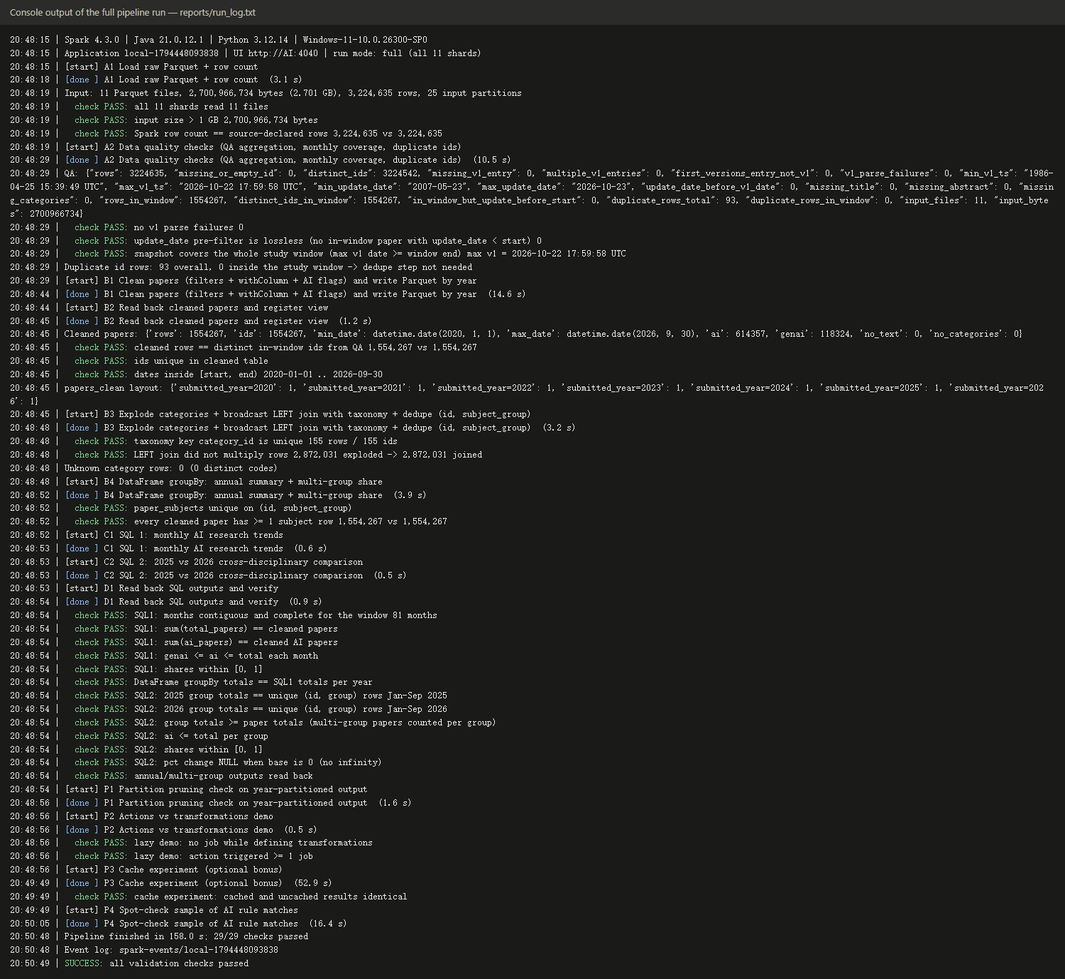
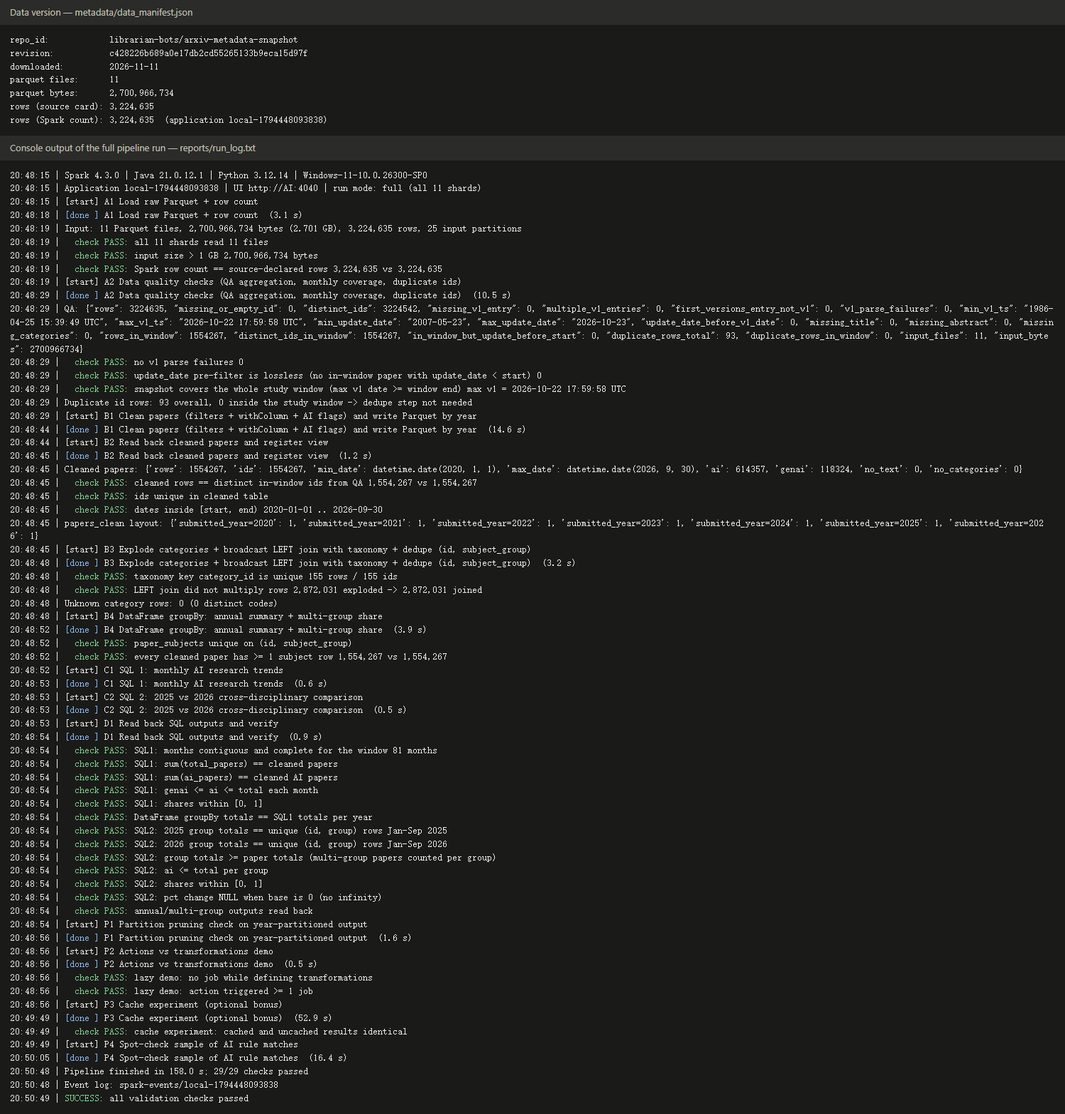
Add README with findings, performance analysis and screenshots
- Dataset description, pinned source, run instructions, methodology
- Key findings for RQ1/RQ2 from the full run, with charts
- Performance analysis based on the plans and Spark UI metrics
- Lazy evaluation and cache results, screenshot gallery, limitations,
  rubric-to-evidence table, CI badge
- Run-log image now also shows the data version from the manifest

diff --git a/capture_screenshots.py b/capture_screenshots.py
@@ -174,16 +174,38 @@ class LiveUICapture:
         self._with_page(run)
 
 
-def render_log(log_file, out_png, title="Console output of the full pipeline run"):
-    """Screenshot of the real run log, rendered as plain monospaced text."""
+def manifest_summary(manifest_file):
+    """A few lines from metadata/data_manifest.json (data version and size)."""
+    m = json.loads(Path(manifest_file).read_text(encoding="utf-8"))
+    local = m["locally_measured"]
+    return "\n".join([
+        f"repo_id:            {m['repo_id']}",
+        f"revision:           {m['revision']}",
+        f"downloaded:         {m['download_date_local']}",
+        f"parquet files:      {local['num_parquet_files']}",
+        f"parquet bytes:      {local['parquet_total_bytes']:,}",
+        f"rows (source card): {m['source_declared']['num_rows']:,}",
+        f"rows (Spark count): {local['spark_row_count']:,}  (application {local.get('spark_application_id')})",
+    ])
+
+
+def render_log(log_file, out_png, manifest_file="metadata/data_manifest.json",
+               title="Console output of the full pipeline run"):
+    """Image of the run log text, with the data version from the manifest on top."""
     text = Path(log_file).read_text(encoding="utf-8")
+    log_html = (html.escape(text).replace("check PASS", '<span class="pass">check PASS</span>')
+                .replace("SUCCESS", '<span class="pass">SUCCESS</span>')
+                .replace("[done ]", '<span class="done">[done ]</span>'))
     page_html = f"""<html><head><meta charset="utf-8"><style>
       body {{ margin:0; background:#1a1a19; color:#f0efec; font:13px/1.45 Consolas, monospace; }}
       .bar {{ background:#2b2b29; color:#c3c2b7; padding:8px 14px; font-family:Segoe UI, sans-serif; }}
       pre {{ margin:0; padding:12px 14px; white-space:pre-wrap; word-break:break-all; }}
       .pass {{ color:#7fd18b; }} .done {{ color:#8ab8f0; }}
-    </style></head><body><div class="bar">{html.escape(title)} &mdash; {html.escape(str(log_file))}</div>
-    <pre>{html.escape(text).replace("check PASS", '<span class="pass">check PASS</span>').replace("SUCCESS", '<span class="pass">SUCCESS</span>').replace("[done ]", '<span class="done">[done ]</span>')}</pre></body></html>"""
+    </style></head><body>
+    <div class="bar">Data version &mdash; {html.escape(str(manifest_file))}</div>
+    <pre>{html.escape(manifest_summary(manifest_file))}</pre>
+    <div class="bar">{html.escape(title)} &mdash; {html.escape(str(log_file))}</div>
+    <pre>{log_html}</pre></body></html>"""
     with sync_playwright() as pw:
         browser = _launch(pw)
         page = browser.new_page(viewport={"width": 1500, "height": 900})

diff --git a/README.md b/README.md
@@ -1,0 +1,339 @@
+# AI Research Growth and Cross-Disciplinary Diffusion: A PySpark Analysis of arXiv, 2020–2026
+
+[![CI](https://github.com/USERZEROA/arxiv-ai-pyspark/actions/workflows/ci.yml/badge.svg)](https://github.com/USERZEROA/arxiv-ai-pyspark/actions/workflows/ci.yml)
+
+A PySpark batch pipeline over 2.7 GB of arXiv metadata (3.2 million records) that measures how many new arXiv papers are AI-related, how that share changed between January 2020 and September 2026, and how it differs across arXiv's subject groups.
+
+**Research questions**
+
+* **RQ1** – How did the number and the share of AI-related papers change month by month, and how much of it mentions generative AI / large language models?
+* **RQ2** – In which arXiv subject groups do AI-related papers appear, and how did the AI share of each group change from January–September 2025 to January–September 2026?
+
+This is a descriptive study. Counts of category labels and keyword matches do not show that AI *caused* more research or that authors *used* AI tools. "Diffusion" here only means that AI topics appear in more subject groups. It is not a measured mechanism.
+
+---
+
+## Contents
+
+1. [Dataset](#dataset)
+2. [How to run](#how-to-run)
+3. [Pipeline and methodology](#pipeline-and-methodology)
+4. [Key findings](#key-findings)
+5. [Run measurements](#run-measurements)
+6. [Performance analysis](#performance-analysis)
+7. [Actions vs transformations](#actions-vs-transformations)
+8. [Caching (optional bonus)](#caching-optional-bonus)
+9. [Screenshots](#screenshots)
+10. [Limitations](#limitations)
+11. [Repository layout](#repository-layout)
+12. [Rubric coverage](#rubric-coverage)
+
+---
+
+## Dataset
+
+### arXiv paper metadata
+
+| | |
+|---|---|
+| Source chain | arXiv → Cornell University's [Kaggle arXiv dataset](https://www.kaggle.com/datasets/Cornell-University/arxiv) → [librarian-bots/arxiv-metadata-snapshot](https://huggingface.co/datasets/librarian-bots/arxiv-metadata-snapshot), a Parquet mirror on Hugging Face (it is not an official Cornell release) |
+| Pinned revision | [`c428226b689a0e17db2cd55265133b9eca15d97f`](https://huggingface.co/datasets/librarian-bots/arxiv-metadata-snapshot/commit/c428226b689a0e17db2cd55265133b9eca15d97f) (last modified 2026-10-27) |
+| Files | 11 Parquet files, **2,700,966,734 bytes (2.70 GB / 2.52 GiB)** measured on disk. Every file matches the size listed by the Hub, see [`metadata/data_manifest.json`](metadata/data_manifest.json) |
+| Rows | **3,224,635** counted by Spark, equal to the row count on the dataset card |
+| Columns used | `id`, `title`, `abstract`, `categories`, `versions` (array of `{version, created}`), `update_date`. The other 8 columns (authors, DOI, comments, ...) are never read |
+| Time coverage | v1 submission dates from 1986-04-25 to **2026-10-22** (UTC); `update_date` from 2007-05-23 to 2026-10-23 |
+| License | The mirror's data card lists **CC0-1.0** for the metadata ([copy of the card](metadata/dataset_card_README.md)). Each paper's full text has its own license. No full texts are downloaded |
+
+`download_data.py` uses `huggingface_hub.snapshot_download` with `repo_type="dataset"`, the full revision hash and `allow_patterns=["data/*.parquet", "README.md"]`. It only fetches files; all cleaning and analysis happens in Spark.
+
+Data quality, measured in one aggregation over the raw files ([`reports/data_quality.json`](reports/data_quality.json)):
+
+* Every record has exactly one `versions` entry labelled `v1`, and all v1 timestamps parse (0 failures). Titles, abstracts and categories are never empty.
+* 81 arXiv ids occur more than once (174 rows, 93 extra rows). All of them are old-style ids first submitted between 1998 and 2007, so none falls inside the study window. Most copies differ in metadata (for example one copy has the later-added alias `cs.NA`). The list is in [`reports/duplicate_ids.csv`](reports/duplicate_ids.csv). The pipeline has a deterministic rule (keep the latest `update_date`), but it runs only if duplicates appear inside the window, which they do not.
+* The files are sorted by `update_date`, newest first, not by submission date.
+
+### arXiv category taxonomy (joined dataset)
+
+[`metadata/arxiv_categories.csv`](metadata/arxiv_categories.csv) is built by `build_categories.py` from the official page <https://arxiv.org/category_taxonomy> (retrieved 2026-11-11, page hash in [`metadata/arxiv_categories_source.json`](metadata/arxiv_categories_source.json)). It has 155 category codes (unique) and the page's 8 top-level groups: Computer Science, Economics, Electrical Engineering and Systems Science, Mathematics, Physics, Quantitative Biology, Quantitative Finance and Statistics. Physics archives such as `astro-ph` or `hep-th` stay inside the Physics group, as on the page. The page states six aliases (`cs.NA`→`math.NA`, `cs.SY`→`eess.SY`, `math.IT`→`cs.IT`, `math.MP`→`math-ph`, `q-fin.EC`→`econ.GN`, `stat.TH`→`math.ST`). An alias row takes the subject group of its canonical code, so a paper listed under both codes is not counted as cross-disciplinary.
+
+---
+
+## How to run
+
+Tested on Windows 11 with Python 3.12.14, Java 21 (Temurin), PySpark 4.3.0, 24 CPU cores and 63 GB RAM, in **single-machine local mode** (`local[*]`). The CI job runs the unit tests on Ubuntu with Java 17.
+
+```bash
+# 1. environment (any venv tool works; uv shown here)
+uv venv .venv --python 3.12
+uv pip install --python .venv -r requirements.txt     # or: pip install -r requirements.txt
+
+# 2. data: pinned snapshot (~2.7 GB) + manifest
+python download_data.py
+python build_categories.py          # optional, the CSV is already in metadata/
+
+# 3. full pipeline (all 11 files) + screenshots of the live Spark UI
+python pipeline.py --capture-ui
+python capture_screenshots.py --log reports/run_log.txt --out screenshots/00_run_log_full_pipeline.png
+python make_charts.py               # redraw charts from reports/*.csv (pipeline.py already does this)
+
+# 4. extra checks
+python benchmark_split_size.py      # input split size comparison
+python -m pytest -q tests           # or: python tests/test_pipeline.py
+
+# 5. look at a finished run again in the Spark History Server
+python history_server.py            # then open http://localhost:18080
+```
+
+Other flags: `python pipeline.py --dev` runs on the first file only and writes to `outputs/dev` and `reports/dev` (development only, not used for any result here). `--skip-cache` skips the cache experiment.
+
+Notes for Windows:
+
+* Spark's launch scripts fail when the install path contains non-ASCII characters (this project lives in a folder with a Chinese name). `spark_session.py` replaces only those path parts with their 8.3 short names.
+* Hadoop's local file system wants `winutils.exe`/`hadoop.dll`, which PySpark does not ship. Instead of downloading third-party binaries, `spark_session.py` compiles [`tools/windows/NoChmodLocalFileSystem.java`](tools/windows/NoChmodLocalFileSystem.java) with the local JDK (a JDK with `javac` is needed). This small subclass skips POSIX permission calls and lists folders with `java.io.File`. On Linux and macOS nothing changes.
+* `--capture-ui` uses Playwright with the installed Google Chrome.
+
+Large files stay local and are ignored by Git: `data/` (raw Parquet), `outputs/` (pipeline Parquet output) and `spark-events/` (event logs).
+
+---
+
+## Pipeline and methodology
+
+All code is in [`pipeline.py`](pipeline.py). The two SQL queries are in [`sql/`](sql).
+
+```
+raw Parquet (11 files, 14 columns)
+  │ A1  read 6 needed columns, count rows                       column pruning
+  │ A2  one QA aggregation, monthly coverage, duplicate-id report
+  ▼
+  B1  4 filters + withColumn (v1 date, year, month, category list, AI flags)
+      → outputs/papers_clean/submitted_year=YYYY/   (Parquet, 1 file per year)
+  B2  read back, register view `papers`
+  B3  explode categories → broadcast LEFT JOIN taxonomy → unique (id, subject_group)
+      → outputs/paper_subjects/submitted_year=YYYY/, view `paper_subjects`
+  B4  DataFrame groupBy: yearly summary, multi-group share
+  C1  SQL 1 monthly trends            → outputs/sql1_monthly_trends   + reports/monthly_ai_trends.csv
+  C2  SQL 2 2025 vs 2026 by group     → outputs/sql2_field_comparison + reports/field_comparison_2025_2026.csv
+  D1  read outputs back and check them against independent counts (29 checks)
+  P1–P4  partition pruning, lazy-evaluation demo, cache experiment, spot-check sample
+```
+
+**First submission date.** The date is the `created` value of the `versions` entry whose label is `v1`. It is picked by label, not by array position. Values look like `Mon, 2 Apr 2007 19:18:42 GMT`. Spark 3+ cannot parse the weekday field, so the `Mon, ` prefix is removed and the rest is parsed with `try_to_timestamp(..., "d MMM yyyy HH:mm:ss z")` in UTC. A missing or unparseable value becomes NULL and the paper is dropped from the window. `update_date` is never used as a replacement, because it changes with later versions and metadata edits.
+
+**Study window.** `2020-01-01 <= v1 date < 2026-10-01`: the full years 2020–2025 plus January–September 2026. The snapshot's last v1 date is 2026-10-22, so October 2026 is incomplete and left out. Every month in the window has data (81 months, see [`reports/monthly_coverage.csv`](reports/monthly_coverage.csv)). Having data does not prove that a month is complete; papers held back by moderation can appear later. 2026 is only ever compared with the same months of 2025. Full-year tables and Jan–Sep tables are kept separate ([`reports/annual_full_years.csv`](reports/annual_full_years.csv), [`reports/same_months_jan_sep_by_year.csv`](reports/same_months_jan_sep_by_year.csv)).
+
+**AI flags** (rules and version in [`metadata/classification_rules.json`](metadata/classification_rules.json)):
+
+| Field | Definition |
+|---|---|
+| `is_ai_category` | categories include one of `cs.AI, cs.LG, cs.CL, cs.CV, cs.RO, cs.MA, cs.NE, stat.ML` |
+| `mentions_ai_terms` | title + abstract matches whole phrases such as *artificial intelligence, machine learning, deep learning, neural network(s), reinforcement learning, (self-/semi-/un)supervised learning, natural language processing, computer vision, language model(s)* ..., or any GenAI/LLM phrase |
+| `mentions_genai_llm` | *generative AI / generative artificial intelligence, large language model(s), vision language model(s), ChatGPT, GPT-2…GPT-5, generative pre-trained transformer*, or the upper-case acronym `LLM`/`LLMs` as a whole word |
+| `ai_related` | `is_ai_category OR mentions_ai_terms` |
+| `text_available` | title or abstract non-empty (true for every paper in this snapshot) |
+
+The category list is this project's own choice, not an official arXiv definition of AI. `cs.AI` alone excludes machine learning, vision, NLP, robotics and multi-agent systems, which arXiv files separately. Before matching, text is lower-cased, and hyphens, dashes and runs of whitespace become single spaces. Word boundaries are required. Deliberately not matched: the bare token "AI", and the words *transformer*, *diffusion*, *agent* and *attention*, because all of them are common in physics, engineering or economics. The keyword groups overlap, so their counts must not be added up. A manual look at 36 sampled records is written up in [`reports/spot_check_review.md`](reports/spot_check_review.md). No accuracy figure is claimed.
+
+**Units and denominators.** Global counts use unique paper ids. Global AI share = AI-related papers / all papers in the window, so non-AI papers stay in the denominator. For subject groups, categories are exploded and joined to the taxonomy, then reduced to unique `(id, subject_group)` pairs. A paper with three Computer Science categories counts once in Computer Science, and a paper in Computer Science and Statistics counts once in each, so group totals add up to more than the number of papers. Group AI share = AI-related pairs in the group / all pairs in the group. Codes missing from the taxonomy would become `Unknown`; in this window there are none ([`reports/unknown_categories.csv`](reports/unknown_categories.csv) is empty). Changes in shares are given in **percentage points (pp)**; changes in counts are given as **percent change**, which is NULL when the base is zero.
+
+---
+
+## Key findings
+
+All numbers come from the full run `local-1794448093838`: 1,554,267 papers first submitted between January 2020 and September 2026.
+
+![Monthly AI share](reports/figures/monthly_ai_share.png)
+
+**1. The AI-related share rose every full year, from 29.2% in 2020 to 45.7% in 2025.** In 2020, 51,978 of 178,275 new papers were AI-related; in 2025 it was 129,958 of 284,162. AI-related papers grew faster than all papers in each year (for example +29.9% vs +16.5% in 2024), so the rise is not just a larger arXiv. In the same months of 2026 (Jan–Sep) the share was 46.8% (127,031 of 271,331), only **+0.8 pp** above Jan–Sep 2025 (46.0%). The yearly gains in that comparison were +4.2, +4.6 and +3.8 pp for 2023–2025. All papers grew by 30.4% and AI-related papers by 32.6%, so both the AI count and the whole archive grew fast in 2026, while the share stayed almost flat. Monthly values move a lot (from 41.0% to 53.5% within the last twelve months), so a single month says little.
+
+**2. Mentions of generative AI / LLMs went from almost none to about one in seven new papers.** In 2020, 166 papers (0.09%) matched the GenAI/LLM phrases; in 2022, 982 (0.5%); in 2023, 9,201 (4.4%); in 2024, 24,319 (10.0%); in 2025, 40,474 (14.2%). In Jan–Sep 2026 it was 42,850 papers (15.8%), +1.5 pp over Jan–Sep 2025. The flag says that an abstract *talks about* these models, not that the authors used them.
+
+![AI share by subject group](reports/figures/field_ai_share_2025_vs_2026.png)
+
+**3. Between Jan–Sep 2025 and Jan–Sep 2026, AI shares by subject group barely moved or fell, while GenAI/LLM mentions grew in every group** ([`reports/field_comparison_2025_2026.csv`](reports/field_comparison_2025_2026.csv)). Computer Science stayed at about 84% (+0.2 pp, 141,767 papers in 2026); Physics (9.9%, 80,730 papers) and Mathematics (9.9%, 51,899) were flat. Electrical Engineering and Systems Science fell from 59.2% to 49.0% (−10.2 pp), and in this snapshot its total paper count also fell by 5.6%. Statistics fell by 3.2 pp and Quantitative Finance by 5.5 pp (on only 1,658 papers). The GenAI/LLM share went up in all eight groups, by +2.1 pp in Computer Science (to 29.6%) and in Economics (to 8.1%). It also rose from 0.4% to 0.9% in Mathematics and from 0.6% to 1.0% in Physics, where the levels are still low. So the 2026 data show LLM topics reaching more fields, not a rising AI share outside Computer Science. No significance test was run, and the small groups can move several points by chance.
+
+**4. The share of AI papers listed in two or more subject groups fell, from 44.7% (2020) to 19.2% (2025) and 15.5% (Jan–Sep 2026)** ([`reports/multi_group_by_year.csv`](reports/multi_group_by_year.csv)). This mostly reflects how papers are listed: 57.5% of `cs.LG` papers from January–June 2020 were also listed in `stat.ML` (a Statistics category), against 34.7% in July–December 2020, 19.0% in early 2021 and 11.0% in early 2026 ([`reports/cs_lg_stat_ml_crosslist.csv`](reports/cs_lg_stat_ml_crosslist.csv)). Multi-group labels are therefore a weak measure of cross-disciplinary work, and this project does not read them as evidence for or against "diffusion".
+
+![Monthly paper counts](reports/figures/monthly_paper_counts.png)
+
+---
+
+## Run measurements
+
+Final run `local-1794448093838` (all 11 files, Windows 11, local mode with 24 cores). Wall-clock times include the actions inside each step ([`reports/performance_metrics.json`](reports/performance_metrics.json), [`reports/run_log.txt`](reports/run_log.txt)). Scan and shuffle numbers come from the Spark REST API of the same application ([`reports/spark_rest/`](reports/spark_rest)).
+
+| Step | Time | What Spark did |
+|---|---:|---|
+| A1 load + `count()` | 3.1 s | row count of all 11 files (no column values needed): 3,224,635 rows |
+| A2 quality checks | 10.5 s | 4 scans of the raw files: QA aggregation, monthly coverage, and two for the duplicate report |
+| B1 clean + write | 14.6 s | scan of 11 files → 1,554,267 rows kept → shuffle by year (170.9 MiB) → 7 Parquet files, 94.4 MiB |
+| B2 read back | 1.2 s | |
+| B3 explode + join + write | 3.2 s | 2,872,031 exploded rows, broadcast join with 155 taxonomy rows, 1,826,011 unique (id, group) pairs |
+| B4 groupBy summaries | 3.9 s | |
+| C1 SQL 1 | 0.6 s | 81 monthly rows |
+| C2 SQL 2 | 0.5 s | 8 subject groups |
+| D1 read back + checks | 0.9 s | 29/29 checks passed ([`reports/validation_checks.json`](reports/validation_checks.json)) |
+| P1–P4 extras | 71.4 s | pruning check, lazy demo, cache experiment (52.9 s), spot-check sample |
+| **Total** | **158.0 s** | |
+
+Raw input size on disk is 2.70 GB. Spark's scan metric "size of files read" (2.5 GiB) is the size of the files opened, not the bytes actually decoded. Spark only read 6 of the 14 columns. The task-level "Input Size" shown on the stage page (6.4 MiB) is clearly too small for that work, so it is not used as a measure of bytes read here.
+
+---
+
+## Performance analysis
+
+Spark kept the work narrow from the start. The physical plan of the main cleaning query ([`reports/plans/B1_clean_papers.txt`](reports/plans/B1_clean_papers.txt), screenshot `03`) shows a single `Scan parquet` whose `ReadSchema` holds only `id, title, categories, abstract, versions, update_date`, 6 of the 14 columns, so authors, DOIs and comments are never decoded (column pruning). The two conditions on top-level columns appear as `PushedFilters: [IsNotNull(update_date), IsNotNull(id), GreaterThanOrEqual(update_date,2020-01-01T00:00)]`. The `update_date >= 2020-01-01` filter is a safe pre-filter, because a paper cannot be updated before its first submission (the QA step checks this: 0 in-window papers violate it). The conditions on the v1 date are computed from the nested `versions` array, so they cannot be pushed into the Parquet reader. Catalyst merged all four filters into one `Filter` node directly above the scan, inside the same whole-stage-codegen block. The two regex projections for the AI flags come after it, so the regexes only run on the 1,554,267 rows that pass. The taxonomy join became `BroadcastHashJoin LeftOuter BuildRight` with a 155-row `BroadcastExchange` (screenshot `04`), so the 2.87 million exploded rows were not shuffled for the join. The query has two exchanges: one for the `(id, subject_group)` de-duplication (37.9 MiB, with a partial `HashAggregate` before it, so duplicates inside a partition are removed early), and one for the year repartition before the write (30.1 MiB). AQE then coalesced the 48 shuffle partitions (`AQEShuffleRead coalesced` in the final plans). Partition pruning works on the output side. Reading the root of `outputs/papers_clean` with `submitted_year = 2025` gives `PartitionFilters: [isnotnull(submitted_year), (submitted_year = 2025)]`, and the scan read 1 of 7 partitions (1 file, 17.4 MiB, 284,162 rows) instead of 7 files and 94.4 MiB (screenshots `07`/`07b`).
+
+The evidence also showed where the time goes and where the planned optimizations fell short. First, `PushedFilters` did not mean data was skipped. The B1 scan still produced all 3,224,635 rows, so no Parquet row group was dropped by the `update_date` condition, even though the files are sorted by that column. I could not pin down why (the column is stored as `INT64 TIMESTAMP(MILLIS, isAdjustedToUTC=false)` by pyarrow, and reading it as a plain timestamp did not change the result). The filter therefore only saves CPU by rejecting old rows before the v1 parsing. Second, the scan stage of B1 is unbalanced (screenshot `11`). With the default 128 MB splits it has 25 tasks for 24 cores, but because of the `update_date` ordering, only 12 tasks contain 2020–2026 papers. Those 12 take 8–13 s each to run the regexes and write the shuffle output, while the other 13 finish in about a second or less, so about half the cores are idle for most of the stage. Third, in the first full run (`local-1794447333346`, kept in [`reports/baseline_run/`](reports/baseline_run)) the slowest query was the duplicate-id report. It grouped whole rows, abstracts included, by `id`, shuffled 2.3 GiB and took 39.1 s, almost the whole 46.4 s of step A2. The `repartition("submitted_year")` before each write is a deliberate extra shuffle (170.9 MiB in B1). It gives one file per year folder instead of up to 25 × 7 small files.
+
+What I changed and what came of it. The duplicate report now shuffles only the `id` column to find repeated ids and then fetches those 174 rows with a broadcast `LEFT SEMI` join. The query dropped from 39.1 s and 2.3 GiB of shuffle to 3.0 s and 27.3 MiB, step A2 from 46.4 s to 10.5 s, and the output file is byte-identical. `paper_subjects` is now also written partitioned by year. SQL 2 previously read all 24 files (13.0 MiB, 960,000 rows, 896 ms); now it reads 2 of 7 partitions (4.3 MiB, 636,653 rows, 374 ms) with identical results. For the unbalanced scan I tried smaller input splits in one application, with the same query and identical results ([`reports/split_size_benchmark.json`](reports/split_size_benchmark.json)). Medians of three runs were 9.06 s at 128 MB (25 tasks), 10.41 s at 64 MB (42 tasks) and 9.02 s at 32 MB (83 tasks). More tasks did not help, so the default stayed. Shuffle partitions are set to 48 (twice the 24 cores) instead of 200, since every shuffle here is small and AQE merges partitions anyway. The whole run takes 158 s on one machine in local mode. This is not a cluster experiment, and 2.7 GB would also fit on one machine without Spark. The workload still suits partitioned processing: the work is per row (date parsing and regex matching over 1.5 million abstracts) and splits cleanly by Parquet row groups across 24 parallel tasks. The cross-row work is reduced to small shuffles and one broadcast.
+
+---
+
+## Actions vs transformations
+
+Code from `pipeline.py` (run in step P2 on the cleaned Parquet output):
+
+```python
+def lazy_demo_transformations(papers):
+    return (papers
+            .filter(F.col("submitted_year") == 2025)            # transformation
+            .filter(F.col("ai_related"))                        # transformation
+            .withColumn("title_words",                          # transformation
+                        F.size(F.split(F.trim("title"), r"\s+"))))
+
+def lazy_demo_action(demo):
+    return (demo.groupBy("mentions_genai_llm")
+            .agg(F.count("*").alias("papers"),
+                 F.round(F.avg("title_words"), 2).alias("avg_title_words"))
+            .orderBy("mentions_genai_llm")
+            .collect())                                          # action
+```
+
+Recorded result ([`reports/lazy_demo.md`](reports/lazy_demo.md)): Spark jobs in the demo's job group were **0** before, **0** after the two filters and `withColumn` (16.5 ms, only a plan was built), and **4** after `collect()` (0.38 s). With AQE, each query stage of the aggregation runs as its own job. The action returned 89,484 AI-related 2025 papers without a GenAI/LLM mention (10.2 title words on average) and 40,474 with one (10.45 words).
+
+Transformations such as `filter`, `withColumn`, `select` and `groupBy` only describe a new DataFrame. Spark records them in a logical plan and does nothing else. `demo.explain()` prints that plan without starting a job. An action such as `collect()`, `count()`, `show()` or `write` asks for a result. Only then does Catalyst optimize the whole chain (the two filters become one `Filter`, the year filter becomes a partition filter, unused columns are dropped) and run it as jobs. The action uses `title_words` in an aggregate on purpose. A plain `count()` could let the optimizer drop the unused column, so it would not show that the new column was computed. "Nothing runs before the action" refers to jobs. `spark.read.parquet` already lists files and reads the schema from Parquet footers. The timing difference is only there to show *when* work happens, not to measure a speed-up.
+
+---
+
+## Caching (optional bonus)
+
+Step P3 runs the same action three times on the cleaned-papers DataFrame built from the raw files (scan + 4 filters + regex flags), then calls `.cache()`, fills the cache with `count()`, and runs the action three more times. The action groups by month and sums `ai_related` and `mentions_genai_llm`, so it uses the regex-derived columns.
+
+| | Run 1 | Run 2 | Run 3 | Median |
+|---|---:|---:|---:|---:|
+| without cache | 10.81 s | 10.77 s | 11.27 s | **10.81 s** |
+| filling the cache (`count()`) | 13.69 s | | | |
+| with cache | 0.41 s | 0.28 s | 0.29 s | **0.29 s** |
+
+The Storage tab showed 25 of 25 partitions cached, 100%, 228.2 MiB in memory (screenshots `09` and `10`). Cached and uncached results were identical. The DataFrame was unpersisted afterwards. Filling the cache cost about one extra scan, so caching pays off from the second repeated action on. All raw files were already in the OS file cache from earlier steps, so the uncached runs did not wait on the disk either.
+
+---
+
+## Screenshots
+
+All UI screenshots were taken from the live Spark UI of the final run `local-1794448093838`, just before `spark.stop()` (the storage pages during the cache experiment). The full list with source URLs is in [`screenshots/index.json`](screenshots/index.json). The same run can be replayed with `python history_server.py`, since its event log is in `spark-events/`.
+
+**Successful pipeline execution** – the data version from [`metadata/data_manifest.json`](metadata/data_manifest.json) (revision, 2,700,966,734 bytes, 3,224,635 rows) above the console log of the full run ([`reports/run_log.txt`](reports/run_log.txt)): every step, 29/29 checks, read-back of all outputs. This image shows the text of those two files and is not a Spark UI page.
+
+![run log](screenshots/00_run_log_full_pipeline.png)
+
+**Jobs and SQL tabs** – every job succeeded; every query with its duration.
+
+![jobs](screenshots/01_jobs_all_succeeded.png)
+![sql list](screenshots/02_sql_queries_list.png)
+
+**Query details: B1 clean + write.** Scan metrics (11 files, 3,224,635 output rows) and the hover box with `PushedFilters` / `ReadSchema`; the `Exchange` for the write; physical plan text.
+
+![B1 scan](screenshots/03_B1_clean_write_graph_scan.png)
+![B1 exchange](screenshots/03_B1_clean_write_graph_exchange.png)
+![B1 plan](screenshots/03_B1_clean_write_physical_plan.png)
+
+**Query details: B3 broadcast join.** `BroadcastHashJoin` output rows, the de-duplication `Exchange`, physical plan with `BroadcastExchange`.
+
+![B3 join](screenshots/04_B3_join_graph_broadcasthashjoin.png)
+![B3 exchange](screenshots/04_B3_join_graph_exchange.png)
+![B3 plan](screenshots/04_B3_join_physical_plan.png)
+
+**The two SQL queries** (executed and written to Parquet). SQL 2 reads 2 of 7 year partitions.
+
+![SQL1](screenshots/05_C1_sql1_monthly_graph_scan.png)
+![SQL1 plan](screenshots/05_C1_sql1_monthly_physical_plan.png)
+![SQL2](screenshots/06_C2_sql2_fields_graph_scan.png)
+![SQL2 plan](screenshots/06_C2_sql2_fields_physical_plan.png)
+
+**Partition pruning** – `submitted_year = 2025` on the dataset root (1 partition read) vs no year filter (7 partitions).
+
+![pruning 2025](screenshots/07_pruning_year_2025_graph_scan.png)
+![pruning 2025 plan](screenshots/07_pruning_year_2025_physical_plan.png)
+![pruning all](screenshots/07b_pruning_all_years_graph_scan.png)
+
+**Lazy evaluation demo** – the only query of the demo, started by `collect()`.
+
+![lazy](screenshots/08_lazy_demo_action_graph_project.png)
+![lazy plan](screenshots/08_lazy_demo_action_physical_plan.png)
+
+**Cache experiment** – Storage tab while the DataFrame was cached.
+
+![storage](screenshots/09_storage_cached_dataframe.png)
+![storage detail](screenshots/10_storage_rdd_detail.png)
+
+**Stage view of B1** – 25 tasks, 12 long and 13 short; plus the stage list and the single local executor.
+
+![stage B1](screenshots/11_stage_B1_scan_tasks.png)
+![stages](screenshots/12_stages_list.png)
+![executors](screenshots/13_executors_local_mode.png)
+
+---
+
+## Limitations
+
+* **Descriptive only.** No causal claims, no significance tests. Year-to-year differences in small groups (Quantitative Finance, Economics, Quantitative Biology) can be noise.
+* **arXiv is not all of science.** Fields such as medicine, chemistry and the social sciences use arXiv little, and willingness to post preprints changes over time.
+* **Rule-based labels.** Category codes miss AI work filed elsewhere. Keywords catch papers that only mention ML in passing and miss papers that use other words (see the spot check). The bare words "agent" and "transformer" are excluded, which misses some recent AI-agent papers. No accuracy is claimed.
+* **Snapshot metadata reflects later edits.** Titles, abstracts and categories are those of the latest version in the October 2026 snapshot. Grouping by v1 date does not recover what a paper looked like when first submitted, and cross-listing habits changed over time (finding 4).
+* **Recent months.** September 2026 is the largest month in the data (39,272 papers). The data cannot show whether that is real growth or a change in submission patterns, and late-moderated papers may still be missing.
+* **Single machine.** All timings come from one Windows PC in Spark local mode with warm OS file caches. They show how the plan behaves, not cluster performance.
+
+---
+
+## Repository layout
+
+```
+README.md                 this report
+requirements.txt          tested package versions
+download_data.py          pinned download + metadata/data_manifest.json
+build_categories.py       arXiv taxonomy page -> metadata/arxiv_categories.csv
+spark_session.py          SparkSession setup (+ Windows path / file-system workarounds)
+pipeline.py               the pipeline (stages A-D, P1-P4)
+sql/                      SQL 1 monthly_trends.sql, SQL 2 field_comparison.sql
+make_charts.py            charts from the small CSV summaries
+capture_screenshots.py    Spark UI screenshots (headless Chrome)
+benchmark_split_size.py   input split size comparison
+history_server.py         Spark History Server on spark-events/
+tests/test_pipeline.py    unit tests on hand-made test rows
+tools/windows/            Java source of the Windows local file-system helper
+metadata/                 manifest, taxonomy CSV + source, AI rules, data card copy
+reports/                  CSV results, plans, REST metrics, logs, figures, baseline run
+screenshots/              Spark UI screenshots of the final run
+.github/workflows/ci.yml  CI: unit tests on Ubuntu
+```
+
+---
+
+## Rubric coverage
+
+| Criterion | Status | Where in the code | Evidence |
+|---|---|---|---|
+| Dataset selection and loading | Done, full data | `download_data.py`; `pipeline.py` L726 (`spark.read.parquet` on all 11 files), L212 (column pruning) | `metadata/data_manifest.json` (2,700,966,734 bytes, 3,224,635 rows), screenshot `00` |
+| Transformation: 2+ filters | Done | `clean_papers` L213, L215, L217, L219–220 (4 filters) | `reports/plans/B1_clean_papers.txt` |
+| Transformation: join / complex aggregation | Done | `join_subjects` L264 (broadcast LEFT join with the taxonomy) | screenshot `04`, `reports/plans/B3_join_subjects.txt` |
+| Transformation: groupBy + aggregation | Done | `annual_summary` L286, `multi_group_summary` L301, `duplicate_id_report` L421 | `reports/annual_full_years.csv`, `reports/multi_group_by_year.csv` |
+| Transformation: withColumn | Done | `with_submission_date` L147, `add_time_columns` L166, `add_ai_flags` L175 | `reports/plans/B1_clean_papers.txt` |
+| SQL queries (2+) | Done | `sql/monthly_trends.sql`, `sql/field_comparison.sql`, run at L861 and L865 | `reports/monthly_ai_trends.csv`, `reports/field_comparison_2025_2026.csv`, screenshots `05`, `06` |
+| Optimization strategies | Done, measured | column pruning L212, early filters L213–220, broadcast join L264, year partitioning L768–769 and L808–810, semi-join duplicate report L421–429, shuffle partitions | Performance analysis; screenshots `03`, `04`, `06`, `07`; `reports/baseline_run/` |
+| Output writing | Done, read back | Parquet writes at L769, L810, and in C1/C2 and B4; CSV summaries | `outputs/` (local, ignored by Git), `reports/validation_checks.json` |
+| `.explain()` and Spark UI screenshots | Done | `save_plan` L124 (`explain("formatted")`) | `reports/plans/`, `screenshots/` |
+| Performance analysis (2–3 paragraphs) | Done | – | [Performance analysis](#performance-analysis) |
+| Actions vs transformations | Done | `lazy_demo_transformations` L445, `run_lazy_demo` | `reports/lazy_demo.md`, screenshot `08` |
+| MLlib (0 points) | Not done (optional) | – | – |
+| Caching (bonus) | Done | `run_cache_experiment` L527 | `reports/performance_metrics.json`, screenshots `09`, `10` |
